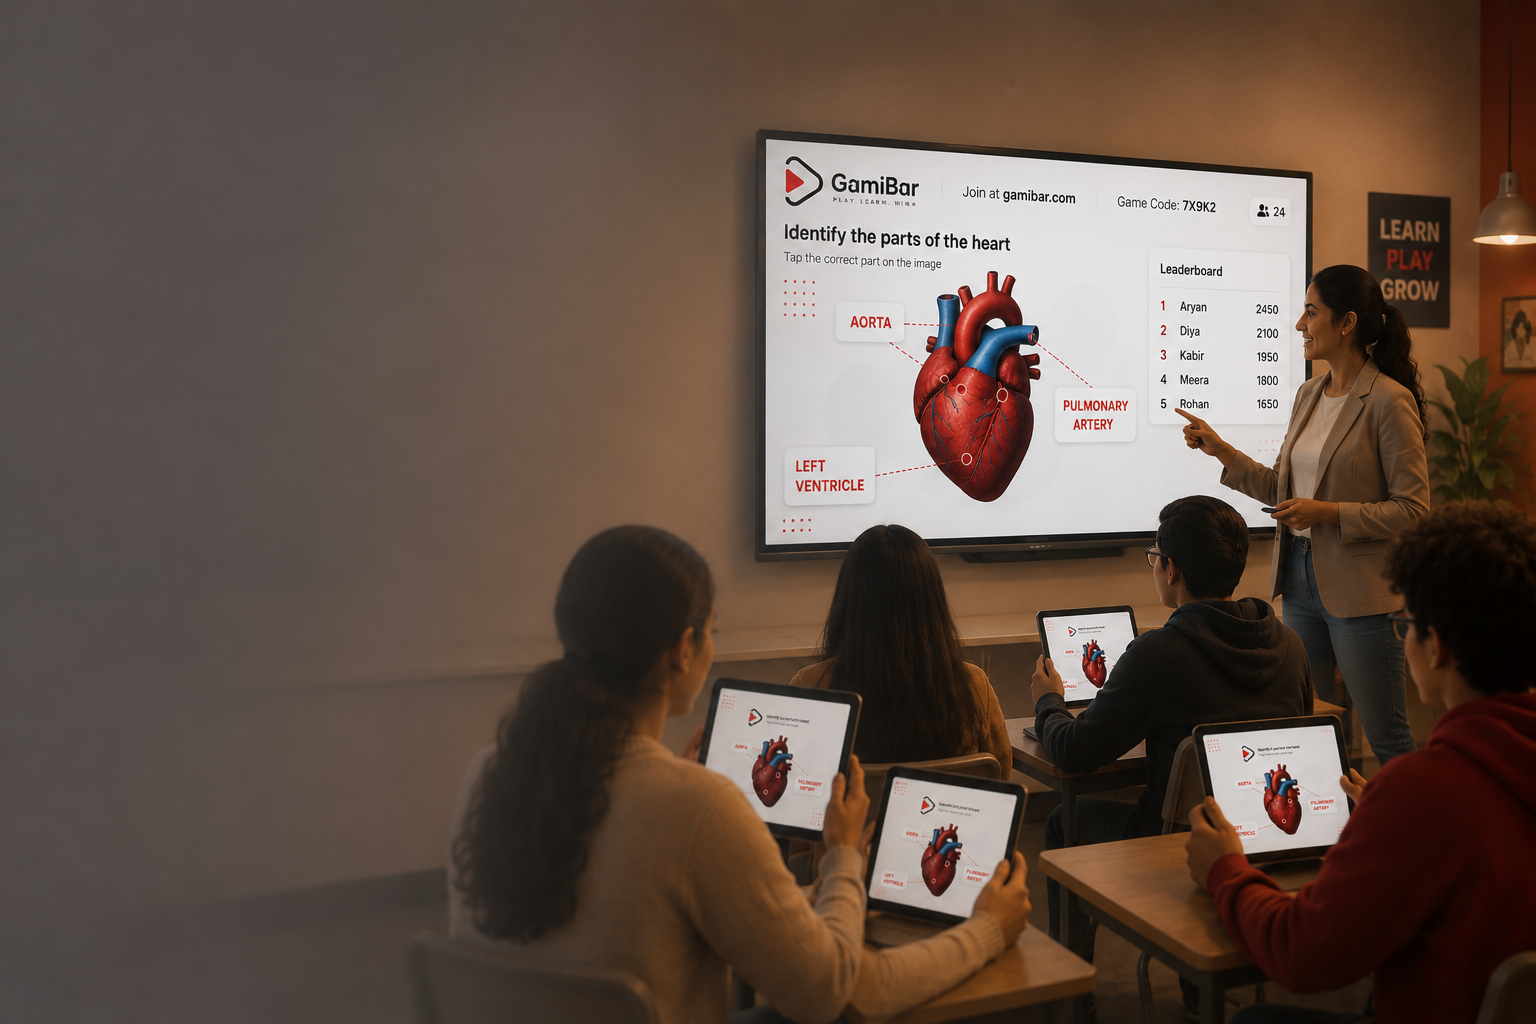
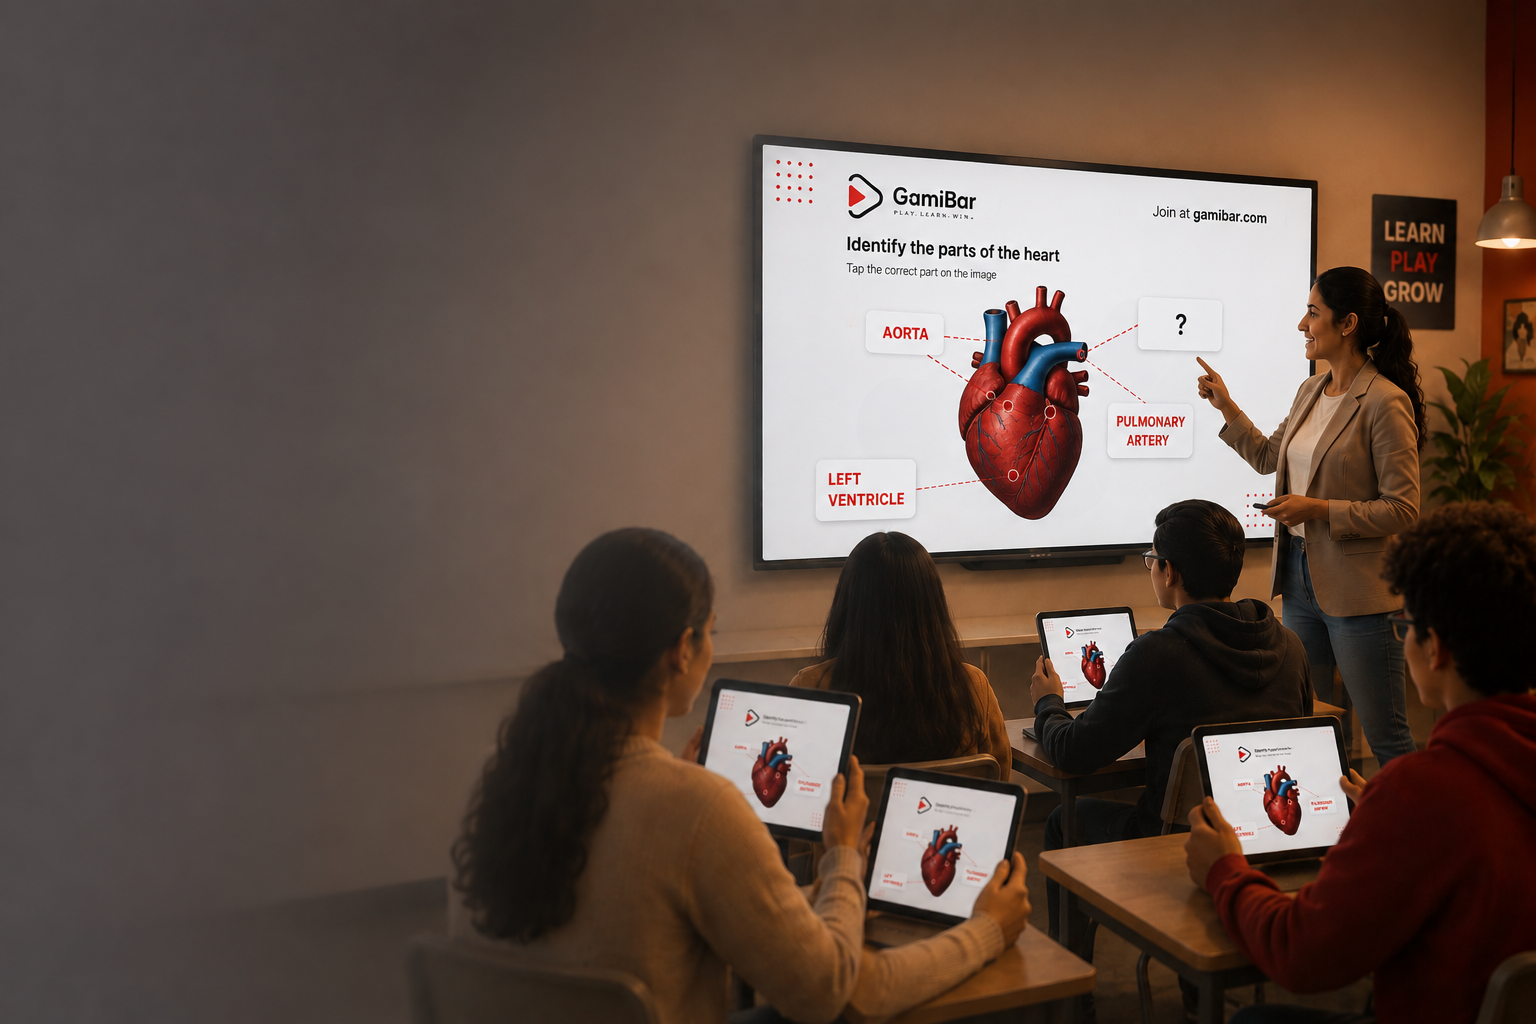
Update layout to min-h-screen, staggered animations, zoom effect, and clean testimonials cards

diff --git a/frontend/src/routes/index.tsx b/frontend/src/routes/index.tsx
@@ -134,40 +134,45 @@ function Landing() {
       <JourneyTimeline />
 
 
-      <LandingSection id="testimonials">
+      <LandingSection id="testimonials" width="7xl" className="min-h-screen flex flex-col justify-center !py-16 md:!py-24 bg-[#FAFAFA]">
         <SectionHeading
           title={HOMEPAGE_TESTIMONIALS_SECTION.title}
           description={HOMEPAGE_TESTIMONIALS_SECTION.description}
           className="mb-10 text-center md:mb-14"
         />
 
-        <div className="grid grid-cols-1 gap-5 sm:gap-6 md:grid-cols-3 md:items-stretch">
+        <div className="grid grid-cols-1 gap-6 md:grid-cols-3 md:items-stretch">
           {HOMEPAGE_TESTIMONIALS.map((t, i) => (
             <Reveal key={t.name} delay={i * 0.08} className="h-full">
               <Card3DTilt
-                variant="dark"
-                className="flex h-full min-h-[320px] flex-col justify-between overflow-hidden p-0 sm:min-h-[360px]"
+                variant="light"
+                className="flex h-full flex-col justify-between overflow-hidden rounded-2xl border border-[#E7E9ED] bg-white p-0 shadow-[0_1px_3px_rgba(16,24,40,0.04)] transition-all duration-300 hover:-translate-y-1.5 hover:shadow-[0_16px_36px_rgba(16,24,40,0.06)]"
               >
-                <div className="relative flex h-full flex-col justify-between p-6 sm:p-7">
-                  <img
-                    src={t.image}
-                    alt={t.imageAlt}
-                    loading="lazy"
-                    decoding="async"
-                    className="absolute inset-0 h-full w-full object-cover"
-                  />
-                  <div className="absolute inset-0 bg-gradient-to-t from-[#0a0a0f]/95 via-[#0a0a0f]/72 to-[#0a0a0f]/45" />
-                  <div className="absolute inset-0 bg-[radial-gradient(ellipse_at_top,rgba(239,68,68,0.12),transparent_55%)]" />
-
-                  <p className="relative z-10 text-sm font-semibold leading-relaxed text-white/90">
-                    {t.quote}
-                  </p>
-                  <div className="relative z-10 mt-5 flex items-center justify-between border-t border-white/15 pt-4 sm:mt-6">
-                    <div>
-                      <p className="font-display text-lg font-bold text-white">{t.name}</p>
-                      <p className="text-xs text-white/65">{t.role}</p>
+                <div className="w-full flex flex-col justify-between h-full">
+                  <div>
+                    {/* Testimonial Photo */}
+                    <div className="relative aspect-video w-full overflow-hidden border-b border-[#EEF0F3]">
+                      <img
+                        src={t.image}
+                        alt={t.imageAlt}
+                        loading="lazy"
+                        className="size-full object-cover"
+                      />
                     </div>
-                    <CheckCircle2 className="size-4 shrink-0 text-[var(--success)]" aria-hidden />
+                    {/* Testimonial Content */}
+                    <div className="p-5">
+                      <p className="text-sm font-medium leading-relaxed text-[#5F6368] italic">
+                        "{t.quote}"
+                      </p>
+                    </div>
+                  </div>
+                  
+                  <div className="p-5 pt-0 mt-4 flex items-center justify-between border-t border-[#EEF0F3] pt-4">
+                    <div>
+                      <p className="font-display text-base font-bold text-[#111111]">{t.name}</p>
+                      <p className="text-xs text-[#5F6368]">{t.role}</p>
+                    </div>
+                    <CheckCircle2 className="size-4 shrink-0 text-[#FF3B30]" aria-hidden />
                   </div>
                 </div>
               </Card3DTilt>
@@ -176,7 +181,7 @@ function Landing() {
         </div>
       </LandingSection>
 
-      <section id="faq" className="mx-auto max-w-4xl scroll-mt-20 px-5 py-16 md:py-20">
+      <LandingSection id="faq" width="5xl" className="min-h-screen flex flex-col justify-center !py-16 md:!py-24 bg-white">
         <SectionHeading
           title={HOMEPAGE_FAQ_SECTION.title}
           className="mb-10 text-center md:mb-12"
@@ -201,9 +206,9 @@ function Landing() {
             ))}
           </Accordion>
         </Reveal>
-      </section>
+      </LandingSection>
 
-      <section className="mx-auto max-w-5xl px-5 pt-6 pb-24 md:pb-28">
+      <LandingSection className="min-h-screen flex flex-col justify-center !py-16 md:!py-24 bg-[#FAFAFA]">
         <Reveal className="relative overflow-hidden rounded-3xl border border-[var(--gamibar-border)] bg-[var(--foreground)] p-10 text-center shadow-lg md:p-16 dark:bg-[var(--elevated)]">
           <div className="pointer-events-none absolute inset-0 bg-[radial-gradient(ellipse_at_center,rgba(255,255,255,0.06),transparent_70%)]" />
 
@@ -213,12 +218,11 @@ function Landing() {
             </h2>
           </FadeUp>
           <FadeUp delay={0.08}>
-            <p className="mx-auto mt-4 max-w-lg text-sm leading-relaxed text-[var(--background)]/60 dark:text-[var(--muted-foreground)]">
+            <p className="mx-auto mt-4 max-w-xl text-base text-[var(--background)]/80 sm:text-lg dark:text-[var(--muted-foreground)]">
               {HOMEPAGE_CTA.description}
             </p>
           </FadeUp>
-
-          <FadeUp delay={0.14} className="mt-8 flex flex-wrap justify-center gap-4 md:mt-9">
+          <FadeUp delay={0.16} className="mt-8 flex flex-col justify-center items-center gap-3.5 sm:flex-row sm:gap-4">
             <MagneticButton>
               <Button
                 asChild
@@ -243,9 +247,7 @@ function Landing() {
             </MagneticButton>
           </FadeUp>
         </Reveal>
-      </section>
+      </LandingSection>
     </div>
   );
 }
-
-

diff --git a/frontend/src/components/home/GameModesSection.tsx b/frontend/src/components/home/GameModesSection.tsx
@@ -13,12 +13,30 @@ import { cn } from "@/lib/utils";
 type GameCard = HomepageToolCard;
 const games: GameCard[] = HOMEPAGE_TOOL_WALL;
 
+const containerVariants = {
+  hidden: {},
+  show: {
+    transition: {
+      staggerChildren: 0.08,
+    },
+  },
+};
+
+const itemVariants = {
+  hidden: { opacity: 0, y: 22 },
+  show: {
+    opacity: 1,
+    y: 0,
+    transition: { duration: 0.5, ease: [0.215, 0.61, 0.355, 1] as const },
+  },
+};
+
 export function GameModesSection() {
   const assessments = useMemo(() => games.filter(g => ["quiz", "polls", "resource_drop"].includes(g.id)), []);
   const challenges = useMemo(() => games.filter(g => ["jigsaw", "connect_dots", "visual_point"].includes(g.id)), []);
 
   return (
-    <LandingSection id="games" width="7xl" className="bg-[#FAFAFA] !py-16 md:!py-24">
+    <LandingSection id="games" width="7xl" className="bg-[#FAFAFA] min-h-screen flex flex-col justify-center !py-16 md:!py-24">
       {/* Main Section Header */}
       <div className="text-center max-w-3xl mx-auto mb-16 md:mb-20">
         <span className="text-xs font-bold uppercase tracking-widest text-[#FF3B30]">
@@ -43,20 +61,23 @@ export function GameModesSection() {
           </p>
         </div>
 
-        <div className="grid grid-cols-1 md:grid-cols-2 lg:grid-cols-3 gap-6 items-stretch">
-          {assessments.map((game, i) => (
+        <motion.div
+          variants={containerVariants}
+          initial="hidden"
+          whileInView="show"
+          viewport={{ once: true, margin: "-40px" }}
+          className="grid grid-cols-1 md:grid-cols-2 lg:grid-cols-3 gap-6 items-stretch"
+        >
+          {assessments.map((game) => (
             <motion.div
               key={game.id}
+              variants={itemVariants}
               className="h-full"
-              initial={{ opacity: 0, y: 16 }}
-              whileInView={{ opacity: 1, y: 0 }}
-              viewport={{ once: true, margin: "-40px" }}
-              transition={{ duration: 0.4, delay: i * 0.08 }}
             >
               <GameModeCard game={game} />
             </motion.div>
           ))}
-        </div>
+        </motion.div>
       </div>
 
       {/* Subsection 2: Interactive Games & Puzzle Challenges */}
@@ -70,20 +91,23 @@ export function GameModesSection() {
           </p>
         </div>
 
-        <div className="grid grid-cols-1 md:grid-cols-2 lg:grid-cols-3 gap-6 items-stretch">
-          {challenges.map((game, i) => (
+        <motion.div
+          variants={containerVariants}
+          initial="hidden"
+          whileInView="show"
+          viewport={{ once: true, margin: "-40px" }}
+          className="grid grid-cols-1 md:grid-cols-2 lg:grid-cols-3 gap-6 items-stretch"
+        >
+          {challenges.map((game) => (
             <motion.div
               key={game.id}
+              variants={itemVariants}
               className="h-full"
-              initial={{ opacity: 0, y: 16 }}
-              whileInView={{ opacity: 1, y: 0 }}
-              viewport={{ once: true, margin: "-40px" }}
-              transition={{ duration: 0.4, delay: i * 0.08 }}
             >
               <GameModeCard game={game} />
             </motion.div>
           ))}
-        </div>
+        </motion.div>
       </div>
     </LandingSection>
   );
@@ -93,16 +117,29 @@ function GameModeCard({ game }: { game: GameCard }) {
   return (
     <a
       href={game.href}
-      className="group block overflow-hidden rounded-2xl border border-[#E7E9ED] bg-white shadow-[0_1px_3px_rgba(16,24,40,0.04)] transition-all duration-300 ease-out hover:-translate-y-1 hover:border-[#D9DDE3] hover:shadow-[0_12px_28px_rgba(16,24,40,0.08)] focus-visible:outline-none focus-visible:ring-2 focus-visible:ring-[#FF3B30] focus-visible:ring-offset-2"
+      className="group flex h-full w-full flex-col justify-between overflow-hidden rounded-2xl border border-[#E7E9ED] bg-white text-left shadow-[0_1px_3px_rgba(16,24,40,0.04)] transition-all duration-300 ease-out hover:-translate-y-1 hover:border-[#D9DDE3] hover:shadow-[0_12px_28px_rgba(16,24,40,0.08)] focus-visible:outline-none focus-visible:ring-2 focus-visible:ring-[#FF3B30] focus-visible:ring-offset-2"
     >
-      <div className="relative aspect-video w-full overflow-hidden">
-        <img
-          src={game.image}
-          alt={game.imageAlt}
-          loading="lazy"
-          decoding="async"
-          className="size-full object-cover transition-transform duration-300 ease-out group-hover:scale-[1.02]"
-        />
+      <div className="w-full">
+        {/* Tool Thumbnail (Edge-to-Edge) */}
+        <div className="relative aspect-video w-full overflow-hidden border-b border-[#EEF0F3]">
+          <img
+            src={game.image}
+            alt={game.imageAlt}
+            loading="lazy"
+            decoding="async"
+            className="size-full object-cover transition-transform duration-300 ease-out group-hover:scale-[1.02]"
+          />
+        </div>
+
+        {/* Content */}
+        <div className="p-4 sm:p-5">
+          <h3 className="font-display text-lg font-bold text-[#111111] transition-colors group-hover:text-[#FF3B30]">
+            {game.title}
+          </h3>
+          <p className="mt-2 text-sm leading-relaxed text-[#5F6368]">
+            {game.copy}
+          </p>
+        </div>
       </div>
     </a>
   );

diff --git a/frontend/src/components/home/Hero3D.tsx b/frontend/src/components/home/Hero3D.tsx
@@ -17,14 +17,17 @@ const fadeUp = {
 
 export function Hero3D() {
   return (
-    <section className="relative isolate overflow-hidden min-h-[calc(100svh-4rem)] flex items-center bg-[#070707] text-white py-16 sm:py-24">
+    <section className="relative isolate overflow-hidden min-h-screen flex items-center bg-[#070707] text-white py-16 sm:py-24">
       {/* Background Image (No black shade overlay) */}
       <div className="absolute inset-0 z-0 select-none pointer-events-none">
-        <img
+        <motion.img
           src={homeHeroBg}
           alt=""
           aria-hidden
           className="absolute inset-0 size-full object-cover opacity-100"
+          initial={{ scale: 1.06 }}
+          animate={{ scale: 1.0 }}
+          transition={{ duration: 7, ease: "easeOut" }}
         />
       </div>
 

diff --git a/frontend/src/components/home/JourneyTimeline.tsx b/frontend/src/components/home/JourneyTimeline.tsx
@@ -21,7 +21,7 @@ export function JourneyTimeline() {
   const pathLength = useTransform(smoothProgress, [0, 0.9], [0, 1]);
 
   return (
-    <LandingSection id="journey" width="5xl" innerClassName="relative" className="!py-16 md:!py-24">
+    <LandingSection id="journey" width="5xl" innerClassName="relative" className="min-h-screen flex flex-col justify-center !py-16 md:!py-24">
       <div ref={containerRef}>
         <SectionHeading
           title={HOMEPAGE_JOURNEY_SECTION.title}
